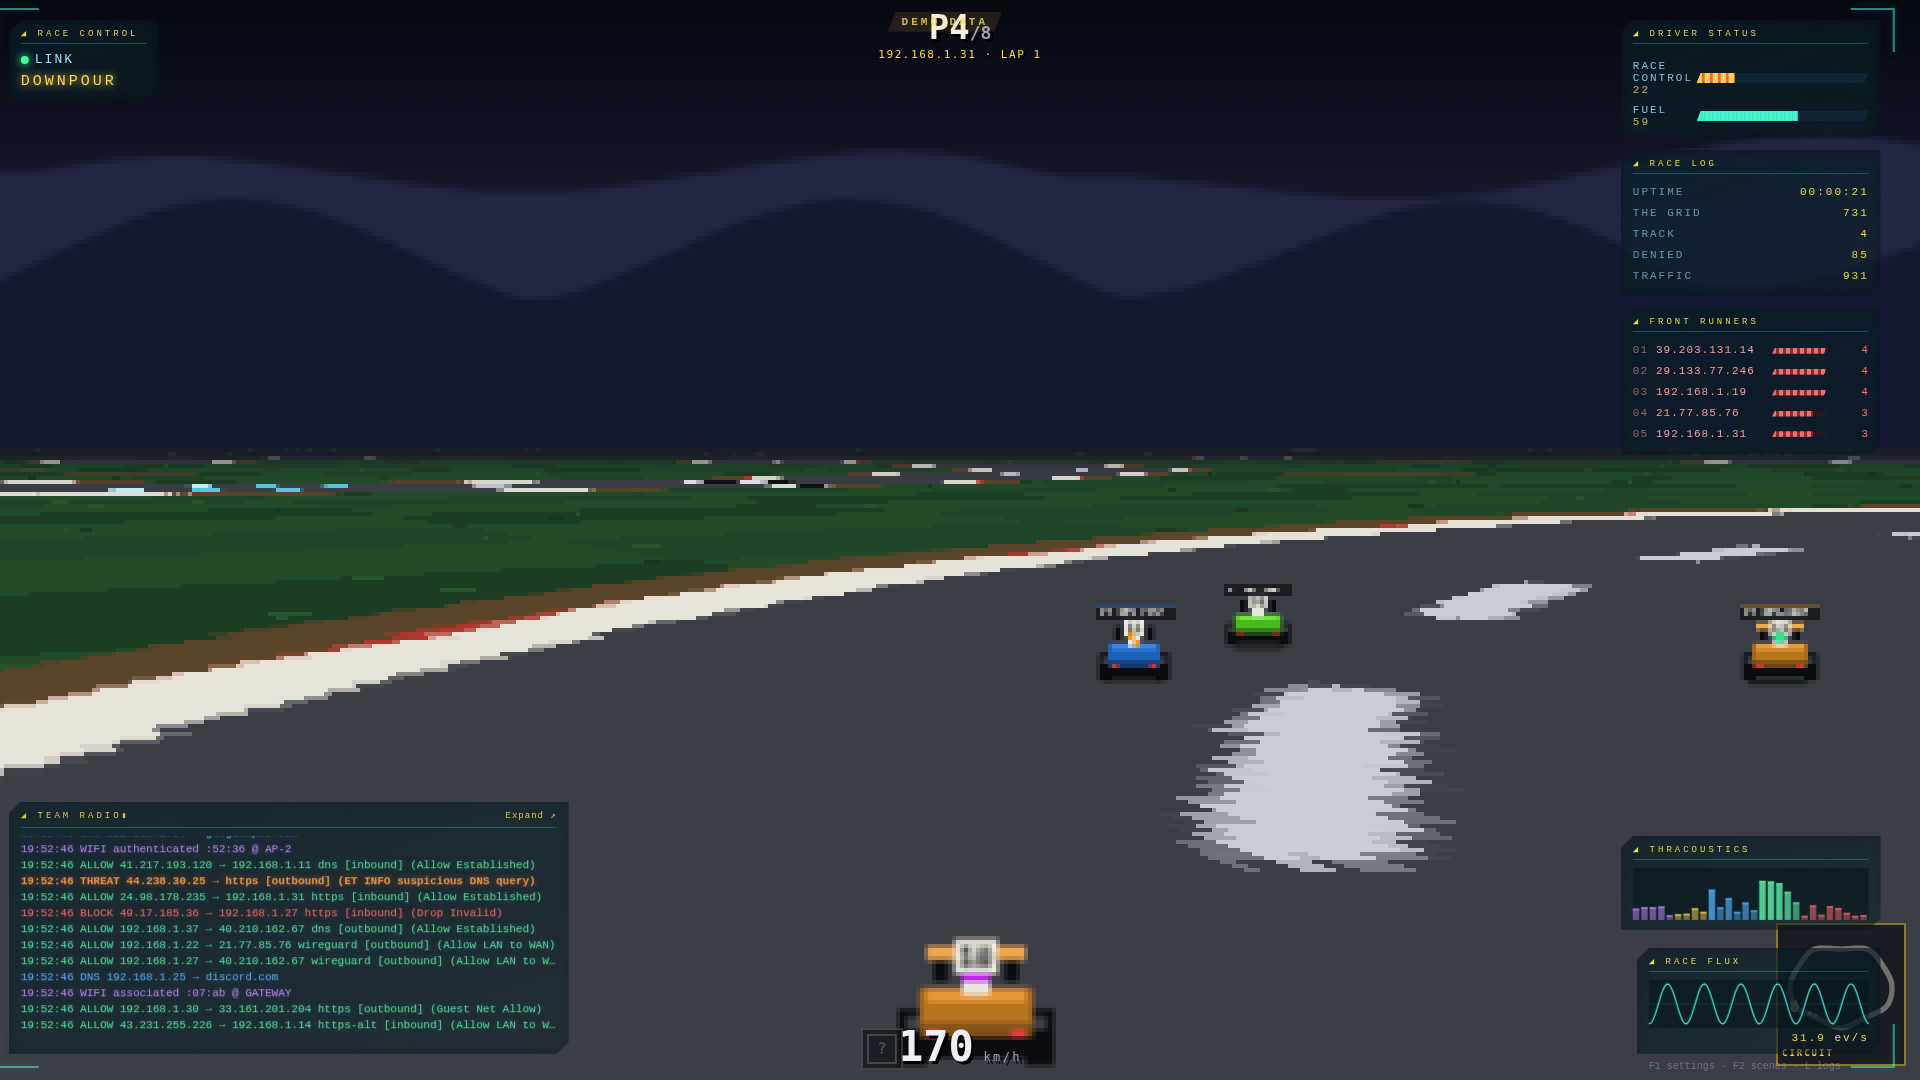
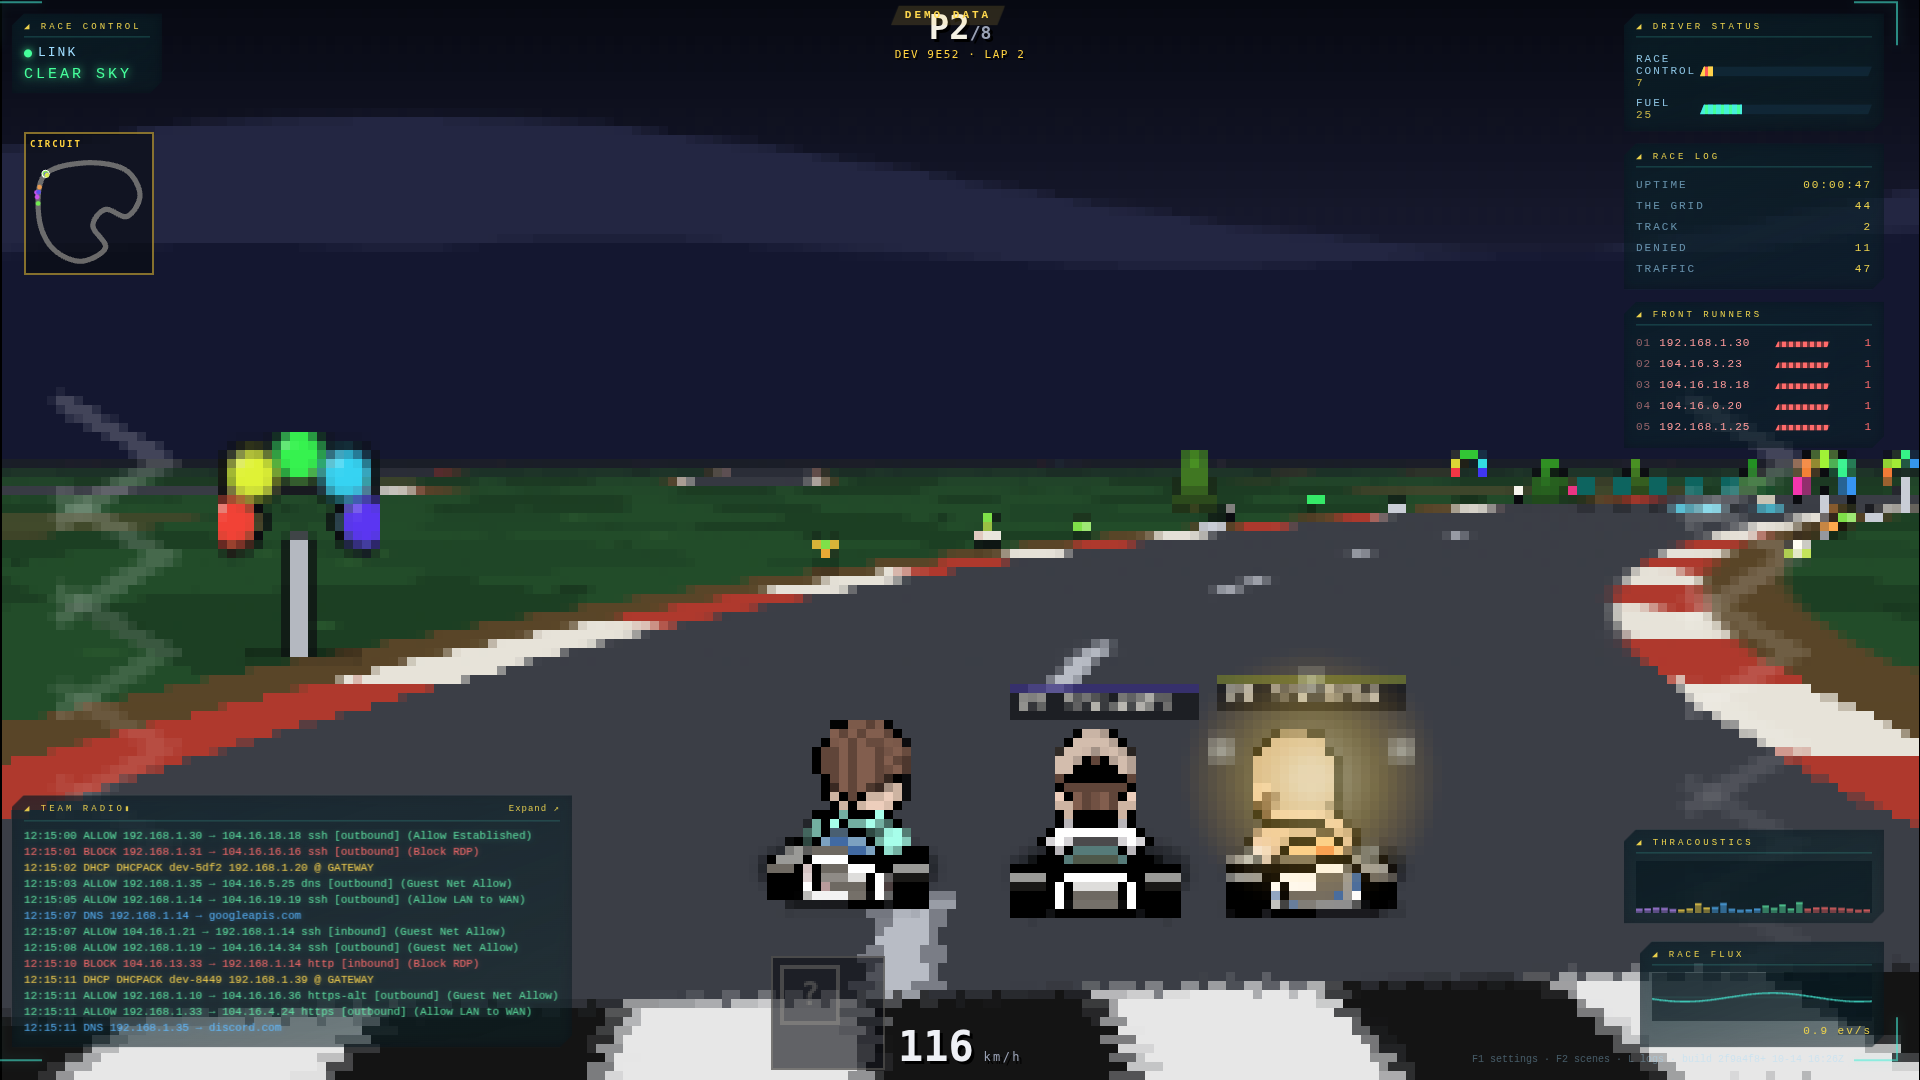
docs: fresh slipstream + audio panel shots, document midi uploads, rename and shuffle pools

diff --git a/README.md b/README.md
@@ -204,6 +204,11 @@ the machine runs a firewall, allow UDP 5514 in from your UniFi devices (for
 example `sudo ufw allow 5514/udp`). To run it as a service, see
 [Kiosk on a Raspberry Pi](#kiosk-on-a-raspberry-pi).
 
+To accept **MIDI uploads** as background tracks, also install the renderer's
+system pieces (Debian/Ubuntu:
+`sudo apt install fluidsynth fluid-soundfont-gm ffmpeg`). Without them the
+relay still runs; MIDI uploads just answer with a clear error.
+
 ### 2. Build the viewer
 
 Node 18 or newer, on any machine:
@@ -1255,7 +1260,11 @@ Audio tab set the three levels.
 Your network runs a grand prix on an old 16-bit flip board. The whole circuit
 is one bitmap and the board spins and scales it under your kart the way a
 Super Nintendo did — sky scrolling mountains on the horizon, red-and-white
-curbs, a low pixel sun — and this time the race is your traffic.
+curbs, a low pixel sun — and this time the race is your traffic. The karts are
+the *Mogul Motorways* sprites by
+[SewerPancake](https://sewerpancake.itch.io/mogul-motorways) (used with credit),
+and the grandstands and fence line are packed with
+[Kenney](https://kenney.nl)'s little monsters.
 
 **The grid is eight karts and always eight.** A seat belongs to a host, never
 to an event: the first time the relay sees a host it takes an empty seat and
@@ -1658,9 +1667,19 @@ only for your kart. **Race sounds** and **Engine purr** live on the Audio tab.
 ### Background tracks
 
 Play your own music in any scene. In F1 → Audio → **Background track**, upload
-an MP3, OGG, M4A, WAV or FLAC file. It's stored on the relay, so every screen
-can use it: pick a track per scene, and every screen showing that scene plays
-it within about 20 seconds, the kiosk included.
+an MP3, OGG, M4A, WAV or FLAC file — or a **MIDI file**, which the relay renders
+to audio with a General MIDI soundfont (needs `fluidsynth` and `ffmpeg` on the
+relay host; MIDI uploads answer with a clear error without them). It's stored
+on the relay, so every screen can use it: pick a track per scene, and every
+screen showing that scene plays it within about 20 seconds, the kiosk included.
+**Rename** fixes a filename that arrived out of an upload; the track keeps its
+analysis and every scene using it follows.
+
+Instead of one track, pick **Shuffle…** and **Choose songs…**: a popup lists
+the library, and the ticked songs become that scene's shuffle pool — a random
+one takes over each time a song ends. The pool lives on the relay with the
+assignment, so every screen showing the scene shuffles the same set, and each
+scene keeps its own (race bangers here, doom OST there).
 
 The relay also ships **bundled default tracks** in `relay/bundled/`: on first
 start it copies them into the track store and hands them to their scenes, with
@@ -1684,10 +1703,14 @@ track and it stays deleted.
 The relay API behind it, handy for scripting:
 
 ```bash
-curl -F file=@mytrack.mp3 http://<relay-host>:8080/api/tracks          # upload
+curl -F file=@mytrack.mp3 http://<relay-host>:8080/api/tracks          # upload (audio or .mid)
 curl http://<relay-host>:8080/api/tracks                               # list + assignments
 curl -X PUT -H 'Content-Type: application/json' \
   -d '{"theme":"racing","name":"mytrack.mp3"}' http://<relay-host>:8080/api/tracks-assign
+curl -X PUT -H 'Content-Type: application/json' \
+  -d '{"theme":"racing","name":"*shuffle:song1.mp3,song2.ogg"}' http://<relay-host>:8080/api/tracks-assign
+curl -X POST http://<relay-host>:8080/api/tracks/old-name.mp3/rename \
+  -H 'Content-Type: application/json' -d '{"name":"new-name"}'         # rename
 curl -X DELETE http://<relay-host>:8080/api/tracks/mytrack.mp3         # delete
 ```
 
